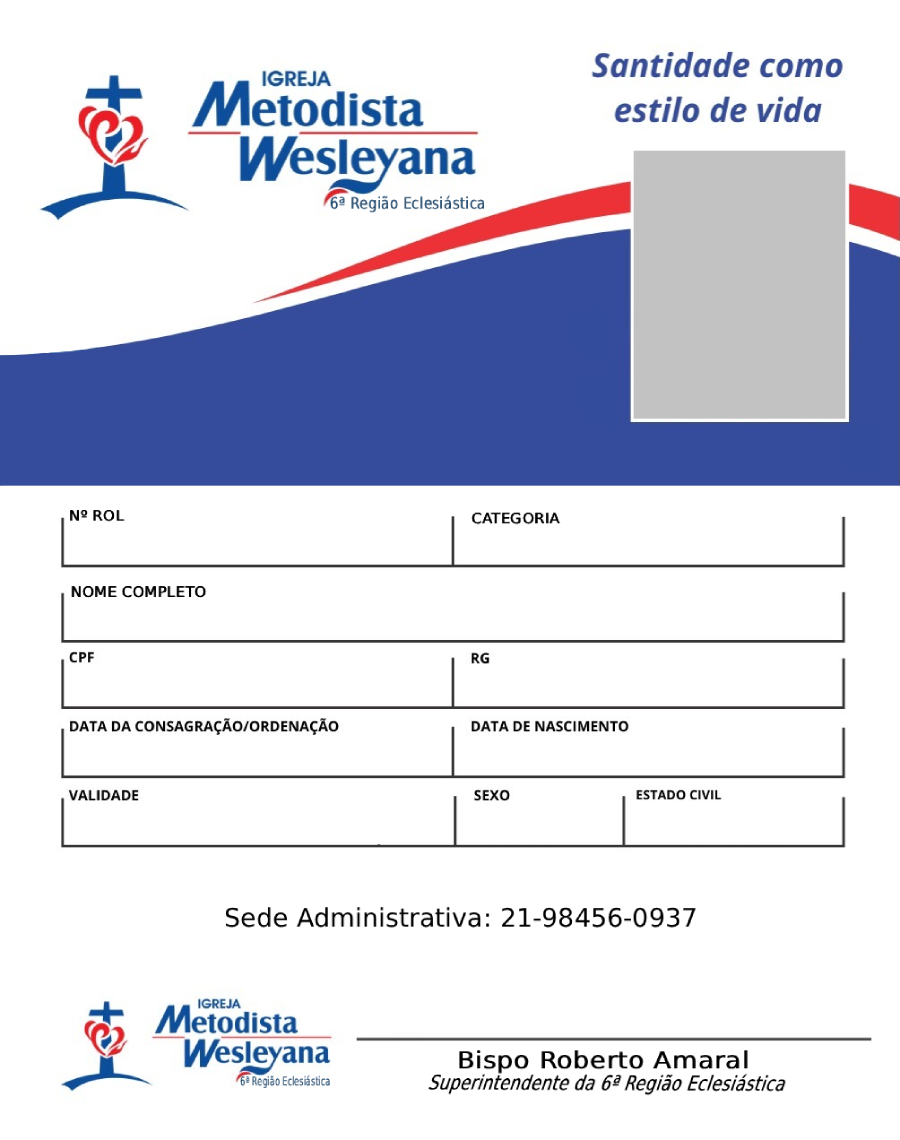
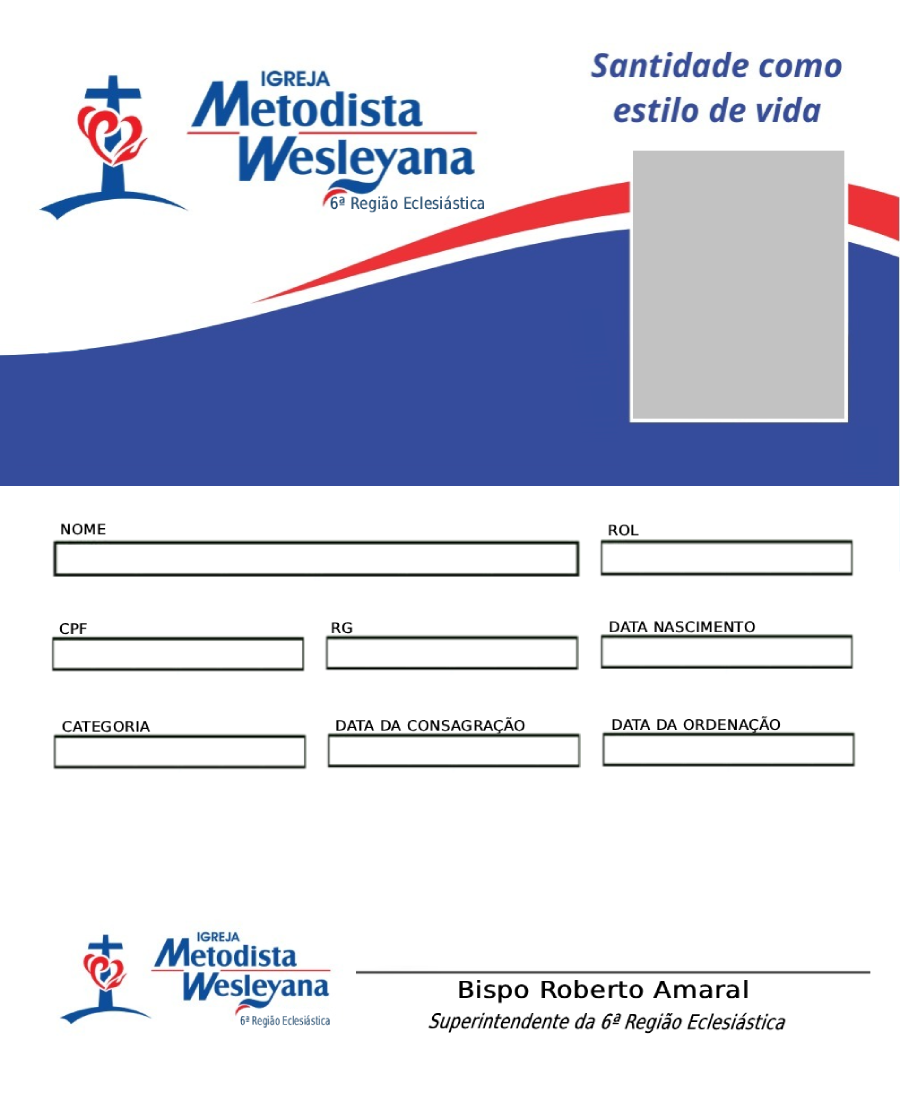
Melhorias na credencial

diff --git a/resources/views/perfil/carteira-digital.blade.php b/resources/views/perfil/carteira-digital.blade.php
@@ -24,40 +24,39 @@
             font-size: 20px;
         }
         .foto{
-            position: absolute; top:171px; margin-left: 635px;
+            position: absolute; top:169px; margin-left: 633px;
             width: 210px;
             height: 268px;
         }
-        .rol{
-            position: absolute; top:555px; margin-left: 90px;
-        }
-        .categoria{
-            position: absolute; top:555px; margin-left: 480px;
-        }
         .nome{
-            position: absolute; top:630px; margin-left: 90px;
+            position: absolute; top:565px; margin-left:70px;
+        }
+        .rol{
+            position: absolute; top:565px; margin-left: 615px;
         }
         .cpf{
-            position: absolute; top:690px; margin-left: 90px;
+            position: absolute; top:660px; margin-left: 70px;
         }
         .rg{
-            position: absolute; top:690px; margin-left: 480px;
-        }
-        .dt-ordenacao{
-            position: absolute; top:760px; margin-left: 90px;
+            position: absolute; top:660px; margin-left: 340px;
         }
         .dt-nascimento{
-            position: absolute; top:760px; margin-left: 480px;
+            position: absolute; top:660px; margin-left: 620px;
+        }
+        .categoria{
+            position: absolute; top:757px; margin-left: 70px;
+        }
+        .dt-ordenacao{
+            position: absolute; top:757px; margin-left:620px;
+        }        
+        .dt-consagracao{
+            position: absolute; top:757px; margin-left: 346px;
+        }
+        .contato-sede{
+            position: absolute; top:860px; margin-left: 280px; font-size: 20px;
         }
         .validade{
-            position: absolute; top:830px; margin-left: 90px; font-size: 12px;
-            width: 380px;
-        }
-        .sexo{
-            position: absolute; top:830px; margin-left: 490px;
-        }
-        .estado-civil{
-            position: absolute; top:830px; margin-left: 640px;
+            position: absolute; top:1070px; margin-left: 90px; font-size: 14px;
         }
     </style>
 @endsection
@@ -78,25 +77,15 @@
             <div class="widget-content widget-content-area">
                 <img src="{{ $usuario->foto }}" class="foto" alt="">
                 <div class="rol">{{ $usuario->rol }}</div>
-                <div class="categoria">{{ isset($usuario->categoria) ? $usuario->categoria : 'Clérigo' }}</div>
                 <div class="nome">{{ $usuario->nome }}</div>
                 <div class="cpf">{{ $usuario->cpf }}</div>
                 <div class="rg">{{ $usuario->identidade }}</div>
-                <div class="dt-ordenacao">{{ formatDate($usuario->data_consagracao) }} | {{ formatDate($usuario->data_ordenacao) }}</div>
                 <div class="dt-nascimento">{{ formatDate($usuario->data_nascimento) }}</div>
+                <div class="categoria">{{ isset($usuario->categoria) ? $usuario->categoria : '' }}</div>
+                <div class="dt-consagracao">{{ formatDate($usuario->data_consagracao) }}</div>
+                <div class="dt-ordenacao">{{ formatDate($usuario->data_ordenacao) }}</div>
+                <div class="contato-sede">Sede Administrativa: 21-98456-0937</div>
                 <div class="validade">Essa credencial terá validade, enquanto seu portador estiver inscrito como clérigo ativo de sua Região Eclesiástica</div>
-                <div class="sexo">{{ $usuario->sexo }}</div>
-                <div class="estado-civil">
-                    @if($usuario->estado_civil == 'S')
-                        Solteiro
-                    @elseif($usuario->estado_civil == 'C')
-                        Casado
-                    @elseif($usuario->estado_civil == 'D')
-                        Divorciado
-                    @elseif($usuario->estado_civil == 'V')
-                        Viúvo
-                    @endif
-                </div>
                 <img src="{{ asset('theme/images/carteira-digital.png') }}" alt="">
             </div>
         </div>
